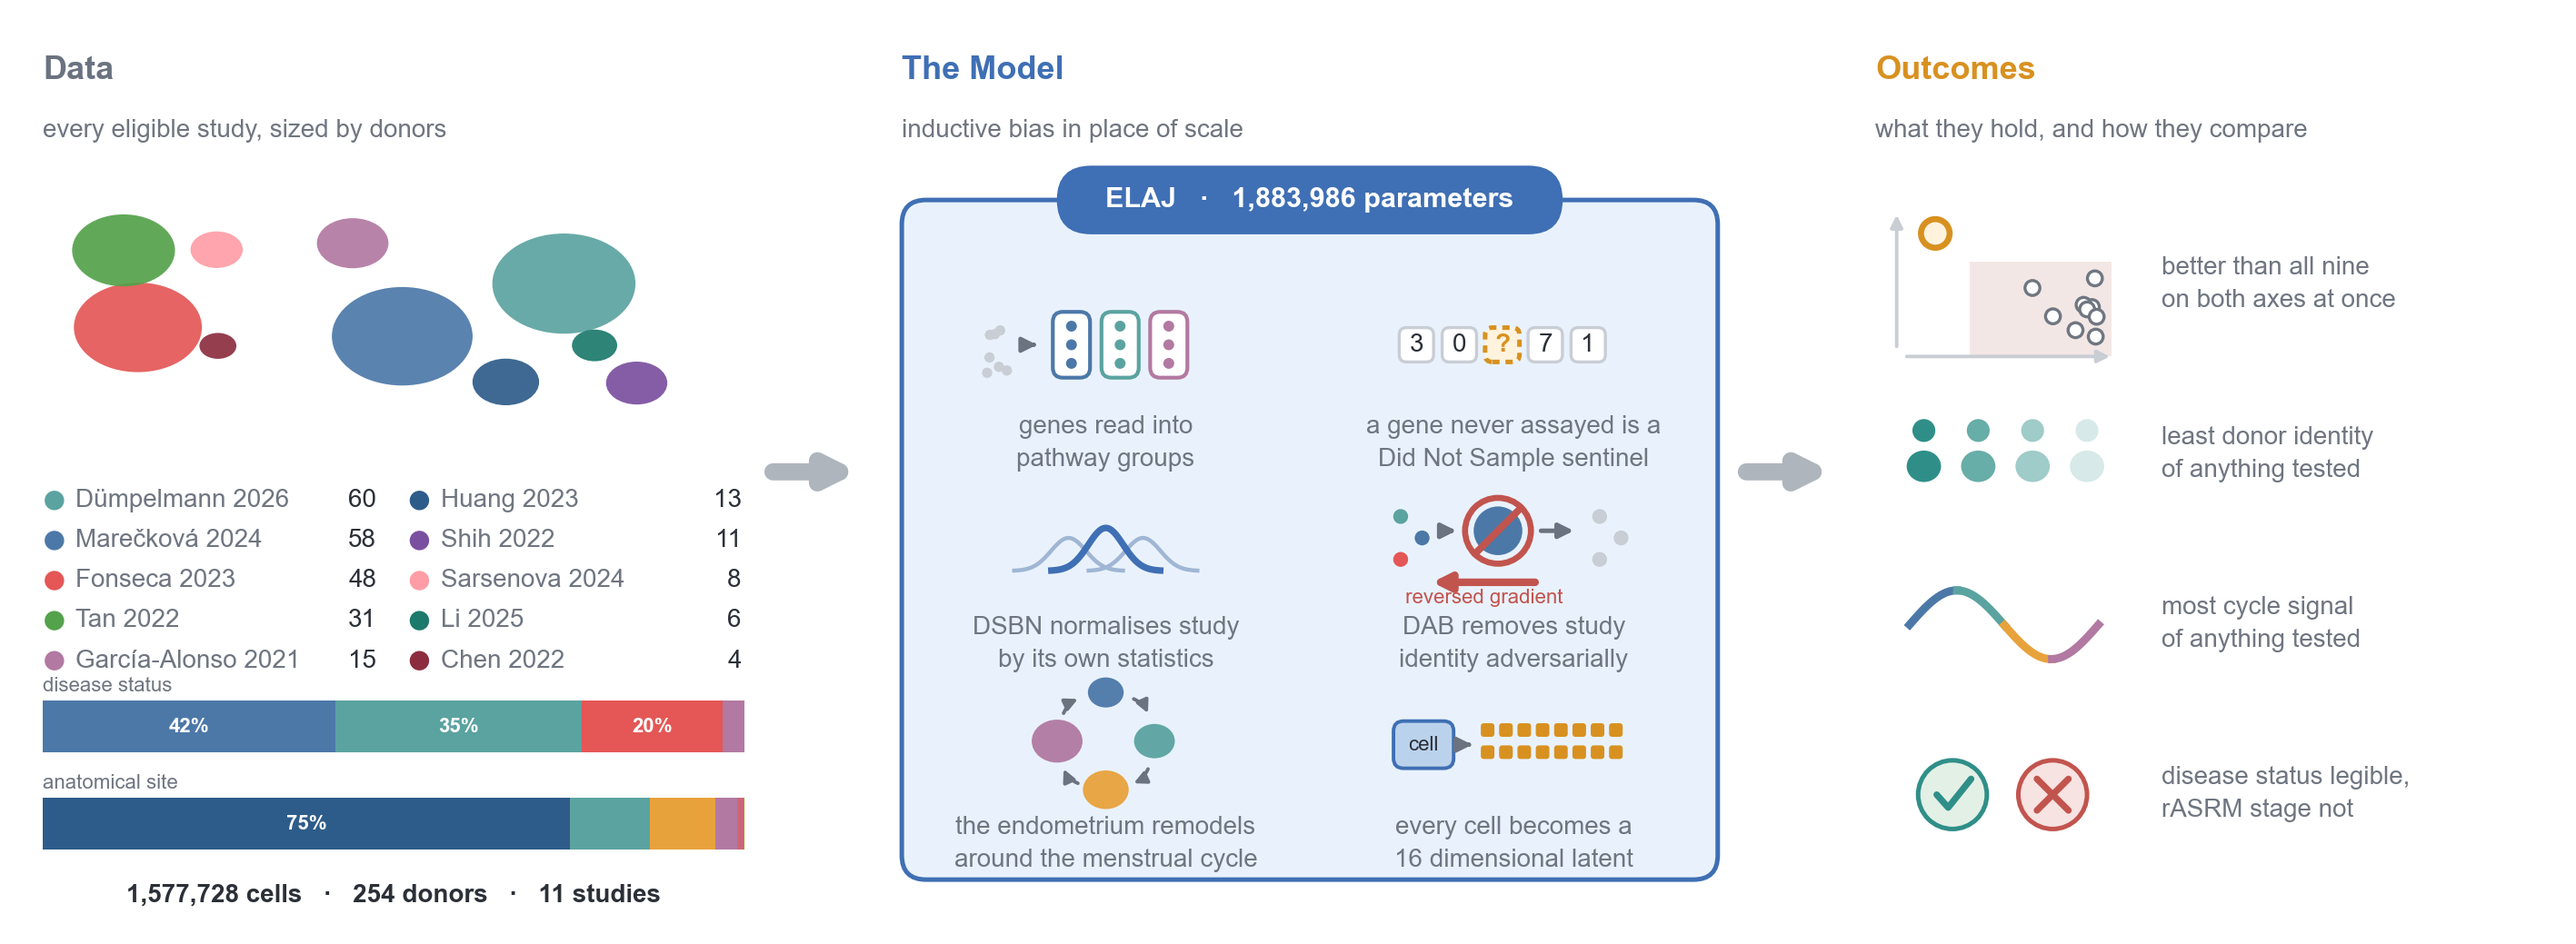
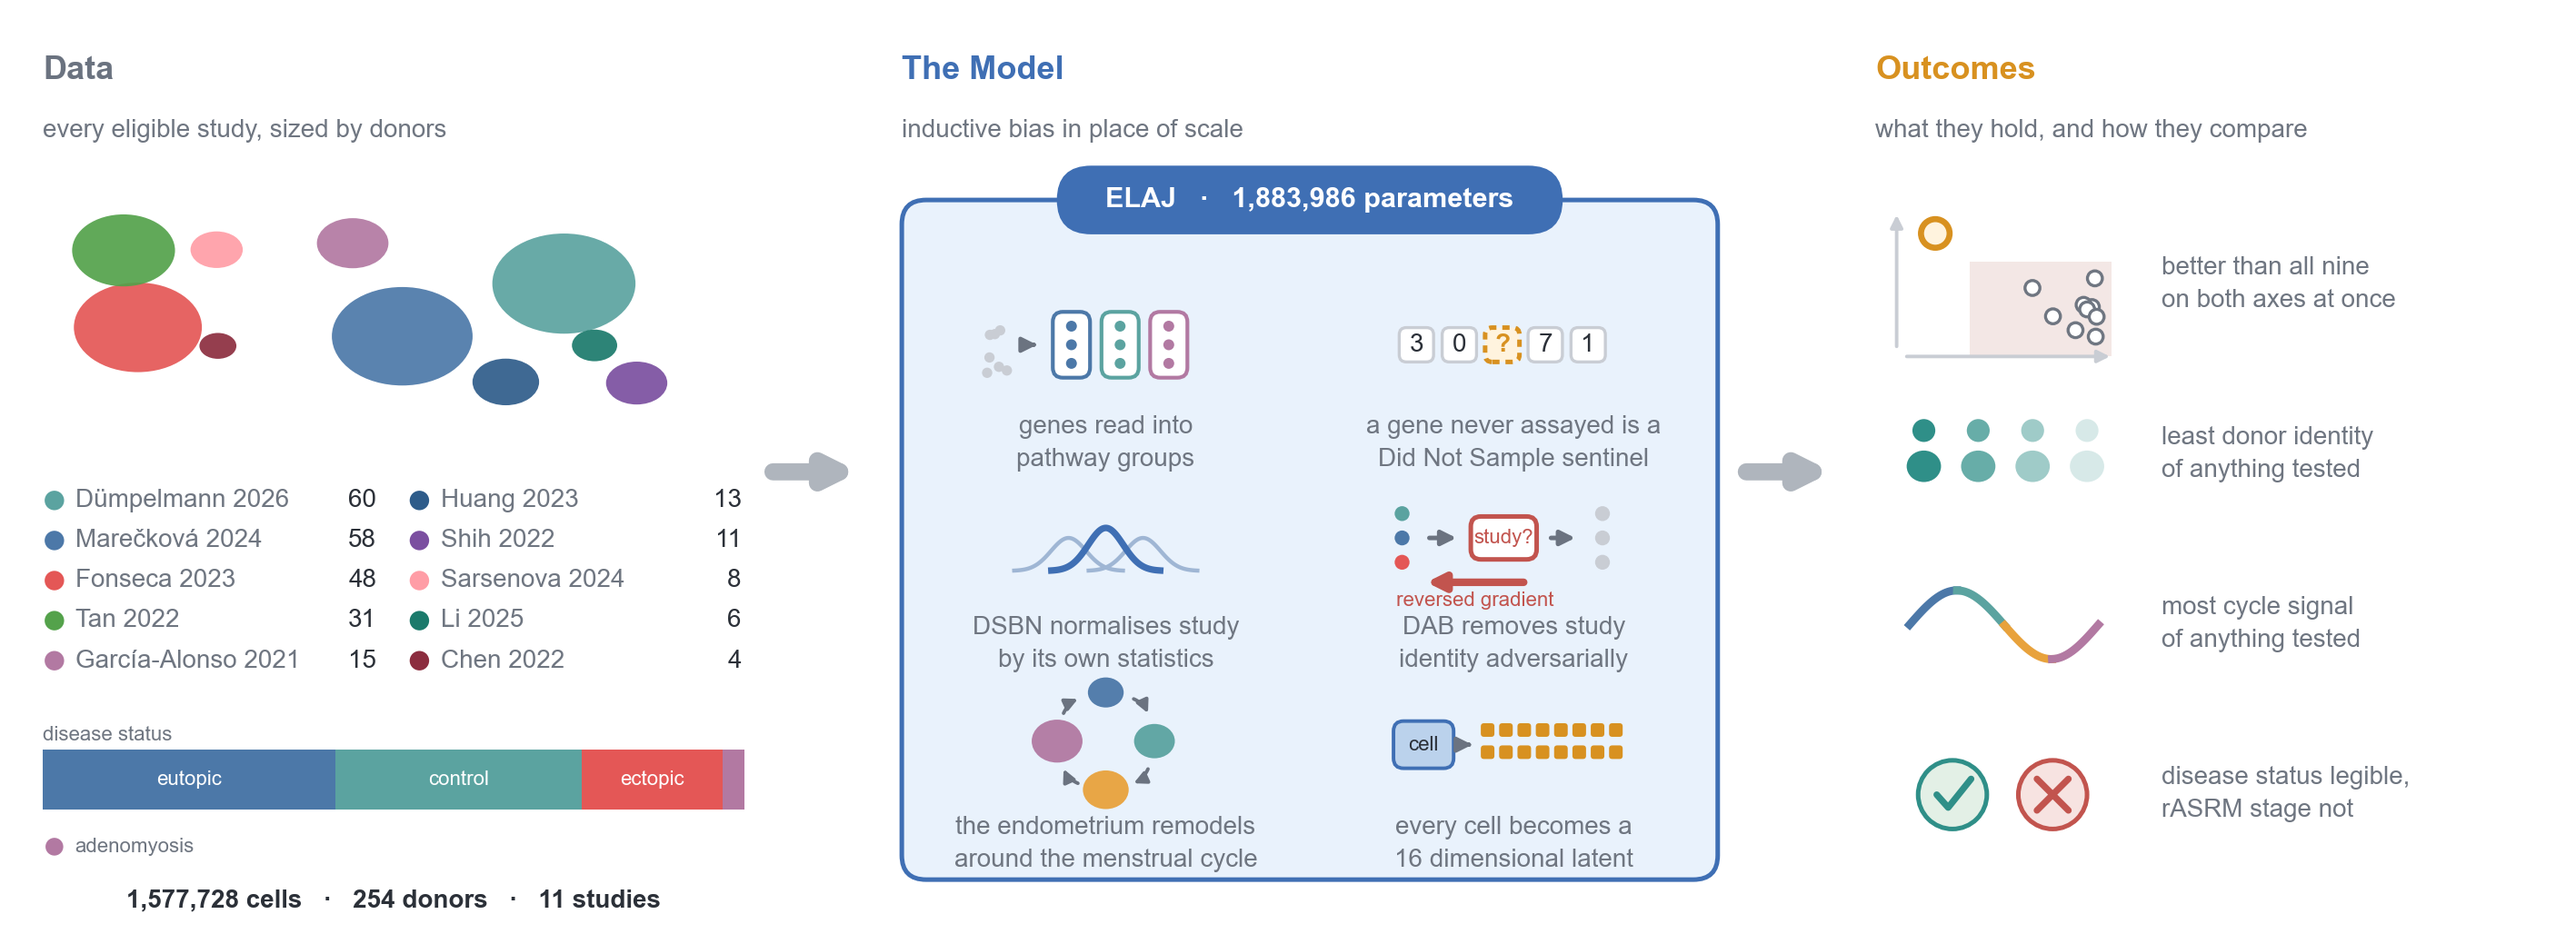
One composition bar named by level; DAB back to the simpler shape

Changed region(s): [[0.0, 0.7084, 0.3105, 0.9856], [0.5279, 0.5236, 0.6521, 0.6468]]

diff --git a/figures/scripts/mock_fig1a_opt8.py b/figures/scripts/mock_fig1a_opt8.py
@@ -63,15 +63,24 @@ def thick_arrow(ax, x, y, length=6.0):
 
 
 def stacked(ax, x, y, w, h, parts, colours, total):
+    """One bar, naming its levels. Percentages told the reader nothing they
+    could use; the level names say what the corpus actually contains."""
     cx = x
+    spill = []
     for (lab, n), c in zip(parts, colours):
         bw = w * n / total
         ax.add_patch(Rectangle((cx, y), bw, h, fc=c, ec="none", zorder=3))
-        if n / total >= 0.14:
-            ax.text(cx + bw / 2, y + h / 2, f"{100*n/total:.0f}%", ha="center",
-                    va="center", fontsize=FS_S, color="#FFFFFF",
-                    fontweight="bold", zorder=4)
+        if bw >= len(lab) * 1.05:
+            ax.text(cx + bw / 2, y + h / 2, lab, ha="center", va="center",
+                    fontsize=FS_S, color="#FFFFFF", zorder=4)
+        else:
+            spill.append((lab, c))
         cx += bw
+    for i, (lab, c) in enumerate(spill):
+        ax.add_patch(Circle((x + 0.8 + i * 16.0, y - 2.6), .62, fc=c,
+                            ec="none", zorder=4))
+        ax.text(x + 2.2 + i * 16.0, y - 2.6, lab, ha="left", va="center",
+                fontsize=FS_S, color=NOTE, zorder=4)
 
 
 # ── the six pictograms. Each draws around (cx, cy); captions are placed
@@ -121,37 +130,34 @@ def pic_dsbn(ax, cx, cy):
 
 
 def pic_dab(ax, cx, cy):
-    """Adversarial: coloured in, grey out, gradient pulling the other way.
+    """Back to the simpler shape AW preferred, tidied.
 
-    Polished from the previous pass. Everything now sits on one baseline,
-    the discriminator is a crossed-out study symbol rather than a question,
-    and the reversed gradient is the only thing below the line so it reads
-    as the counter-force rather than as more plumbing.
+    The crossed-circle version packed a strike, a ring, a filled disc and
+    two arrow pairs into 26 mm and read as noise. This is the earlier one:
+    study-coloured cells in, a discriminator asked which study, grey cells
+    out, and the reversed gradient as the single thing below the line.
     """
     for k, c in enumerate(SC[:3]):
-        ax.add_patch(Circle((cx - 7.9 + (k % 2) * 1.5, cy + 2.0 - k * 1.5),
-                            .52, fc=c, ec="none", zorder=4))
-    ax.annotate("", xy=(cx - 3.3, cy + 1.0), xytext=(cx - 5.4, cy + 1.0),
+        ax.add_patch(Circle((cx - 7.8, cy + 2.2 - k * 1.7), .52, fc=c,
+                            ec="none", zorder=4))
+    ax.annotate("", xy=(cx - 3.3, cy + 0.5), xytext=(cx - 6.6, cy + 0.5),
                 arrowprops=dict(arrowstyle="-|>", color=GREY_E, lw=.9,
                                 mutation_scale=6), zorder=4)
-    # a crossed-out study colour, not a crossed-out word: the previous
-    # version struck through its own label and neither survived
-    ax.add_patch(Circle((cx - 1.1, cy + 1.0), 1.7, fc=SC[1], ec="none",
-                        zorder=4))
-    ax.add_patch(Circle((cx - 1.1, cy + 1.0), 2.3, fc="none", ec=ROSE,
-                        lw=1.2, zorder=6))
-    ax.plot([cx - 2.7, cx + 0.5], [cy - 0.6, cy + 2.6], color=ROSE, lw=1.4,
-            solid_capstyle="round", zorder=6)
-    ax.annotate("", xy=(cx + 4.9, cy + 1.0), xytext=(cx + 1.2, cy + 1.0),
+    ax.add_patch(FancyBboxPatch((cx - 3.0, cy - 1.0), 4.6, 3.0,
+                                "round,pad=0,rounding_size=.7",
+                                fc="#FFFFFF", ec=ROSE, lw=.9, zorder=4))
+    ax.text(cx - 0.7, cy + 0.5, "study?", ha="center", va="center",
+            fontsize=FS_S, color=ROSE, zorder=5)
+    ax.annotate("", xy=(cx + 5.0, cy + 0.5), xytext=(cx + 1.9, cy + 0.5),
                 arrowprops=dict(arrowstyle="-|>", color=GREY_E, lw=.9,
                                 mutation_scale=6), zorder=4)
     for k in range(3):
-        ax.add_patch(Circle((cx + 6.0 + (k % 2) * 1.5, cy + 2.0 - k * 1.5),
-                            .52, fc="#C9CDD4", ec="none", zorder=4))
-    ax.annotate("", xy=(cx - 6.4, cy - 2.6), xytext=(cx + 2.2, cy - 2.6),
+        ax.add_patch(Circle((cx + 6.2, cy + 2.2 - k * 1.7), .52, fc="#C9CDD4",
+                            ec="none", zorder=4))
+    ax.annotate("", xy=(cx - 6.8, cy - 2.6), xytext=(cx + 1.4, cy - 2.6),
                 arrowprops=dict(arrowstyle="-|>", color=ROSE, lw=1.5,
                                 mutation_scale=7), zorder=5)
-    ax.text(cx - 2.1, cy - 3.0, "reversed gradient", ha="center", va="top",
+    ax.text(cx - 2.7, cy - 3.2, "reversed gradient", ha="center", va="top",
             fontsize=FS_S, color=ROSE, zorder=5)
 
 
@@ -290,13 +296,13 @@ def main() -> None:
                 fontsize=FS_T, color=NOTE)
         ax.text(cx2 + 23.3, cy2, str(n), ha="right", va="center",
                 fontsize=FS_T, color=INK)
-    dis = m.disease_status.value_counts(); tis = m.tissue.value_counts()
-    stacked(ax, 3, 13.4, 49, 3.6,
+    # ONE bar, not two. The anatomical-site bar was a second chart saying
+    # nothing the disease bar did not, in a beat that is about the corpus.
+    dis = m.disease_status.value_counts()
+    stacked(ax, 3, 9.4, 49, 4.2,
             [(k, dis[k]) for k in DIS_C], list(DIS_C.values()), len(m))
-    ax.text(3, 17.4, "disease status", fontsize=FS_S, color=NOTE, va="bottom")
-    stacked(ax, 3, 6.6, 49, 3.6, list(tis.items())[:6], TIS_C, len(m))
-    ax.text(3, 10.6, "anatomical site", fontsize=FS_S, color=NOTE, va="bottom")
-    ax.text(27.5, 2.6, "1,577,728 cells   ·   254 donors   ·   11 studies",
+    ax.text(3, 14.0, "disease status", fontsize=FS_S, color=NOTE, va="bottom")
+    ax.text(27.5, 2.2, "1,577,728 cells   ·   254 donors   ·   11 studies",
             ha="center", va="bottom", fontsize=FS_T, color=INK,
             fontweight="bold")
 
